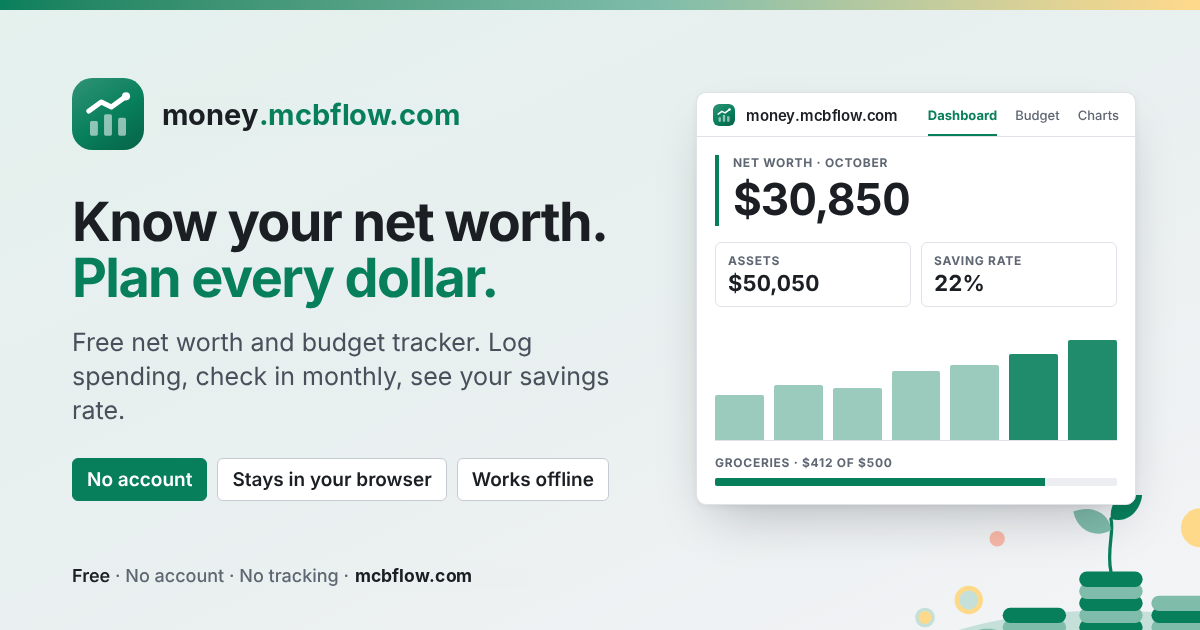
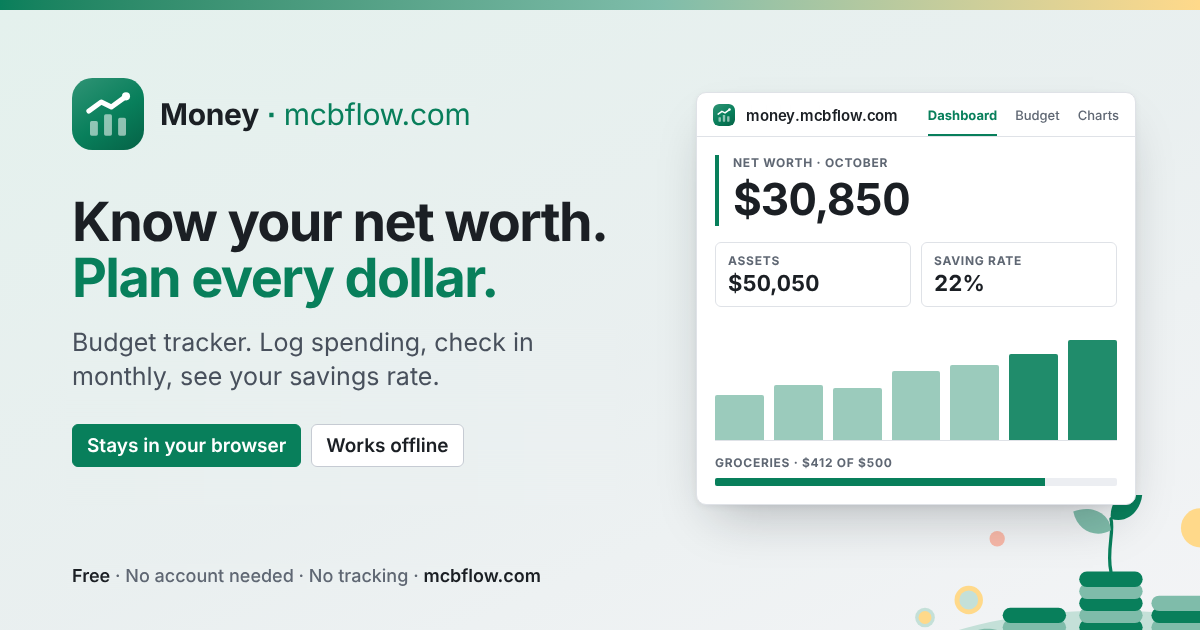
Add files via upload

Changed region(s): [[0.0617, 0.5127, 0.5242, 0.8143], [0.1233, 0.1508, 0.4008, 0.2111], [0.185, 0.9048, 0.4625, 0.9349]]

diff --git a/index.html b/index.html
@@ -14,8 +14,8 @@
 <meta name="theme-color" content="#087F5B">
 <title>Money | Home</title>
 <link rel="canonical" href="https://money.mcbflow.com/">
-<meta property="og:title" content="money.mcbflow.com | Free net worth and budget tracker">
-<meta property="og:description" content="Log spending, check in monthly and see your savings rate and retirement date. No account, and your data stays in your browser.">
+<meta property="og:title" content="Money: Free net worth and budget tracker">
+<meta property="og:description" content="Log spending, check in monthly and see your savings rate and retirement date. No account needed, and your data stays in your browser.">
 <meta property="og:type" content="website">
 <meta property="og:url" content="https://money.mcbflow.com/">
 <meta property="og:site_name" content="money.mcbflow.com">
@@ -23,10 +23,10 @@
 <meta property="og:image:type" content="image/png">
 <meta property="og:image:width" content="1200">
 <meta property="og:image:height" content="630">
-<meta property="og:image:alt" content="money.mcbflow.com: free net worth and budget tracker. No account, and your data stays in your browser.">
+<meta property="og:image:alt" content="Money: Free net worth and budget tracker. No account needed, and your data stays in your browser.">
 <meta name="twitter:card" content="summary_large_image">
-<meta name="twitter:title" content="money.mcbflow.com | Free net worth and budget tracker">
-<meta name="twitter:description" content="Log spending, check in monthly and see your savings rate and retirement date. No account, and your data stays in your browser.">
+<meta name="twitter:title" content="Money: Free net worth and budget tracker">
+<meta name="twitter:description" content="Log spending, check in monthly and see your savings rate and retirement date. No account needed, and your data stays in your browser.">
 <meta name="twitter:image" content="https://money.mcbflow.com/og-image.png?v=3">
 <meta name="apple-mobile-web-app-capable" content="yes">
 <meta name="mobile-web-app-capable" content="yes">
@@ -37,8 +37,8 @@
 <link rel="apple-touch-icon" href="apple-touch-icon.png?v=3">
 <meta name="author" content="Matthew Broyer">
 <meta name="copyright" content="© 2024–2026 Matthew Broyer. All rights reserved.">
-<script type="application/ld+json">{"@context": "https://schema.org", "@type": "WebApplication", "name": "money.mcbflow.com", "alternateName": "Money", "url": "https://money.mcbflow.com/", "description": "Free net worth and budget tracker. Log spending, check in monthly and see your savings rate and retirement date. No account, and your data stays in your browser.", "applicationCategory": "FinanceApplication", "operatingSystem": "Any (runs in a web browser)", "browserRequirements": "Requires JavaScript", "inLanguage": "en", "isAccessibleForFree": true, "image": "https://money.mcbflow.com/og-image.png", "author": {"@type": "Person", "name": "Matthew Broyer"}, "offers": {"@type": "Offer", "price": "0", "priceCurrency": "USD"}}</script>
-<meta name="description" content="Free net worth and budget tracker. Log spending, check in monthly and see your savings rate and retirement date. No account, and your data stays in your browser.">
+<script type="application/ld+json">{"@context": "https://schema.org", "@type": "WebApplication", "name": "money.mcbflow.com", "alternateName": "Money", "url": "https://money.mcbflow.com/", "description": "Free net worth and budget tracker. Log spending, check in monthly and see your savings rate and retirement date. No account needed, and your data stays in your browser.", "applicationCategory": "FinanceApplication", "operatingSystem": "Any (runs in a web browser)", "browserRequirements": "Requires JavaScript", "inLanguage": "en", "isAccessibleForFree": true, "image": "https://money.mcbflow.com/og-image.png", "author": {"@type": "Person", "name": "Matthew Broyer"}, "offers": {"@type": "Offer", "price": "0", "priceCurrency": "USD"}}</script>
+<meta name="description" content="Free net worth and budget tracker. Log spending, check in monthly and see your savings rate and retirement date. No account needed, and your data stays in your browser.">
 <script>try{document.documentElement.setAttribute('data-theme',localStorage.getItem('money.theme')==='dark'?'dark':'light')}catch(e){document.documentElement.setAttribute('data-theme','light')}</script>
 <style>
 /* ---- theme: "Utility" — neutral desktop-software palette, one emerald accent, light + dark ---- */

diff --git a/404.html b/404.html
@@ -26,8 +26,8 @@ a:focus-visible{outline:2px solid var(--accent);outline-offset:2px;border-radius
 header{width:min(720px,100% - 32px);margin:0 auto;padding:20px 0 0}
 .brand{display:inline-flex;align-items:center;gap:10px;color:var(--ink);text-decoration:none;font-weight:650;font-size:16px}
 .brand svg{width:34px;height:34px;flex:none;border-radius:8px}
-.brand i{font-style:normal;font-weight:500;color:var(--accent)}
-.brand .sep{display:inline-block;margin:0 .32em 0 .34em;color:var(--muted);font-weight:400}
+.brand i{font-style:normal;font-weight:400;color:var(--accent)}
+.brand .sep{display:inline-block;margin:0 .32em 0 .34em;color:var(--accent);font-weight:700}
 main{flex:1;width:min(720px,100% - 32px);margin:18px auto 24px}
 .card{position:relative;overflow:hidden;background:var(--surface);border:1px solid var(--border);border-radius:8px;
  box-shadow:0 1px 2px rgba(20,24,31,.06),0 12px 32px -18px rgba(20,24,31,.28);padding:28px 28px 0}
